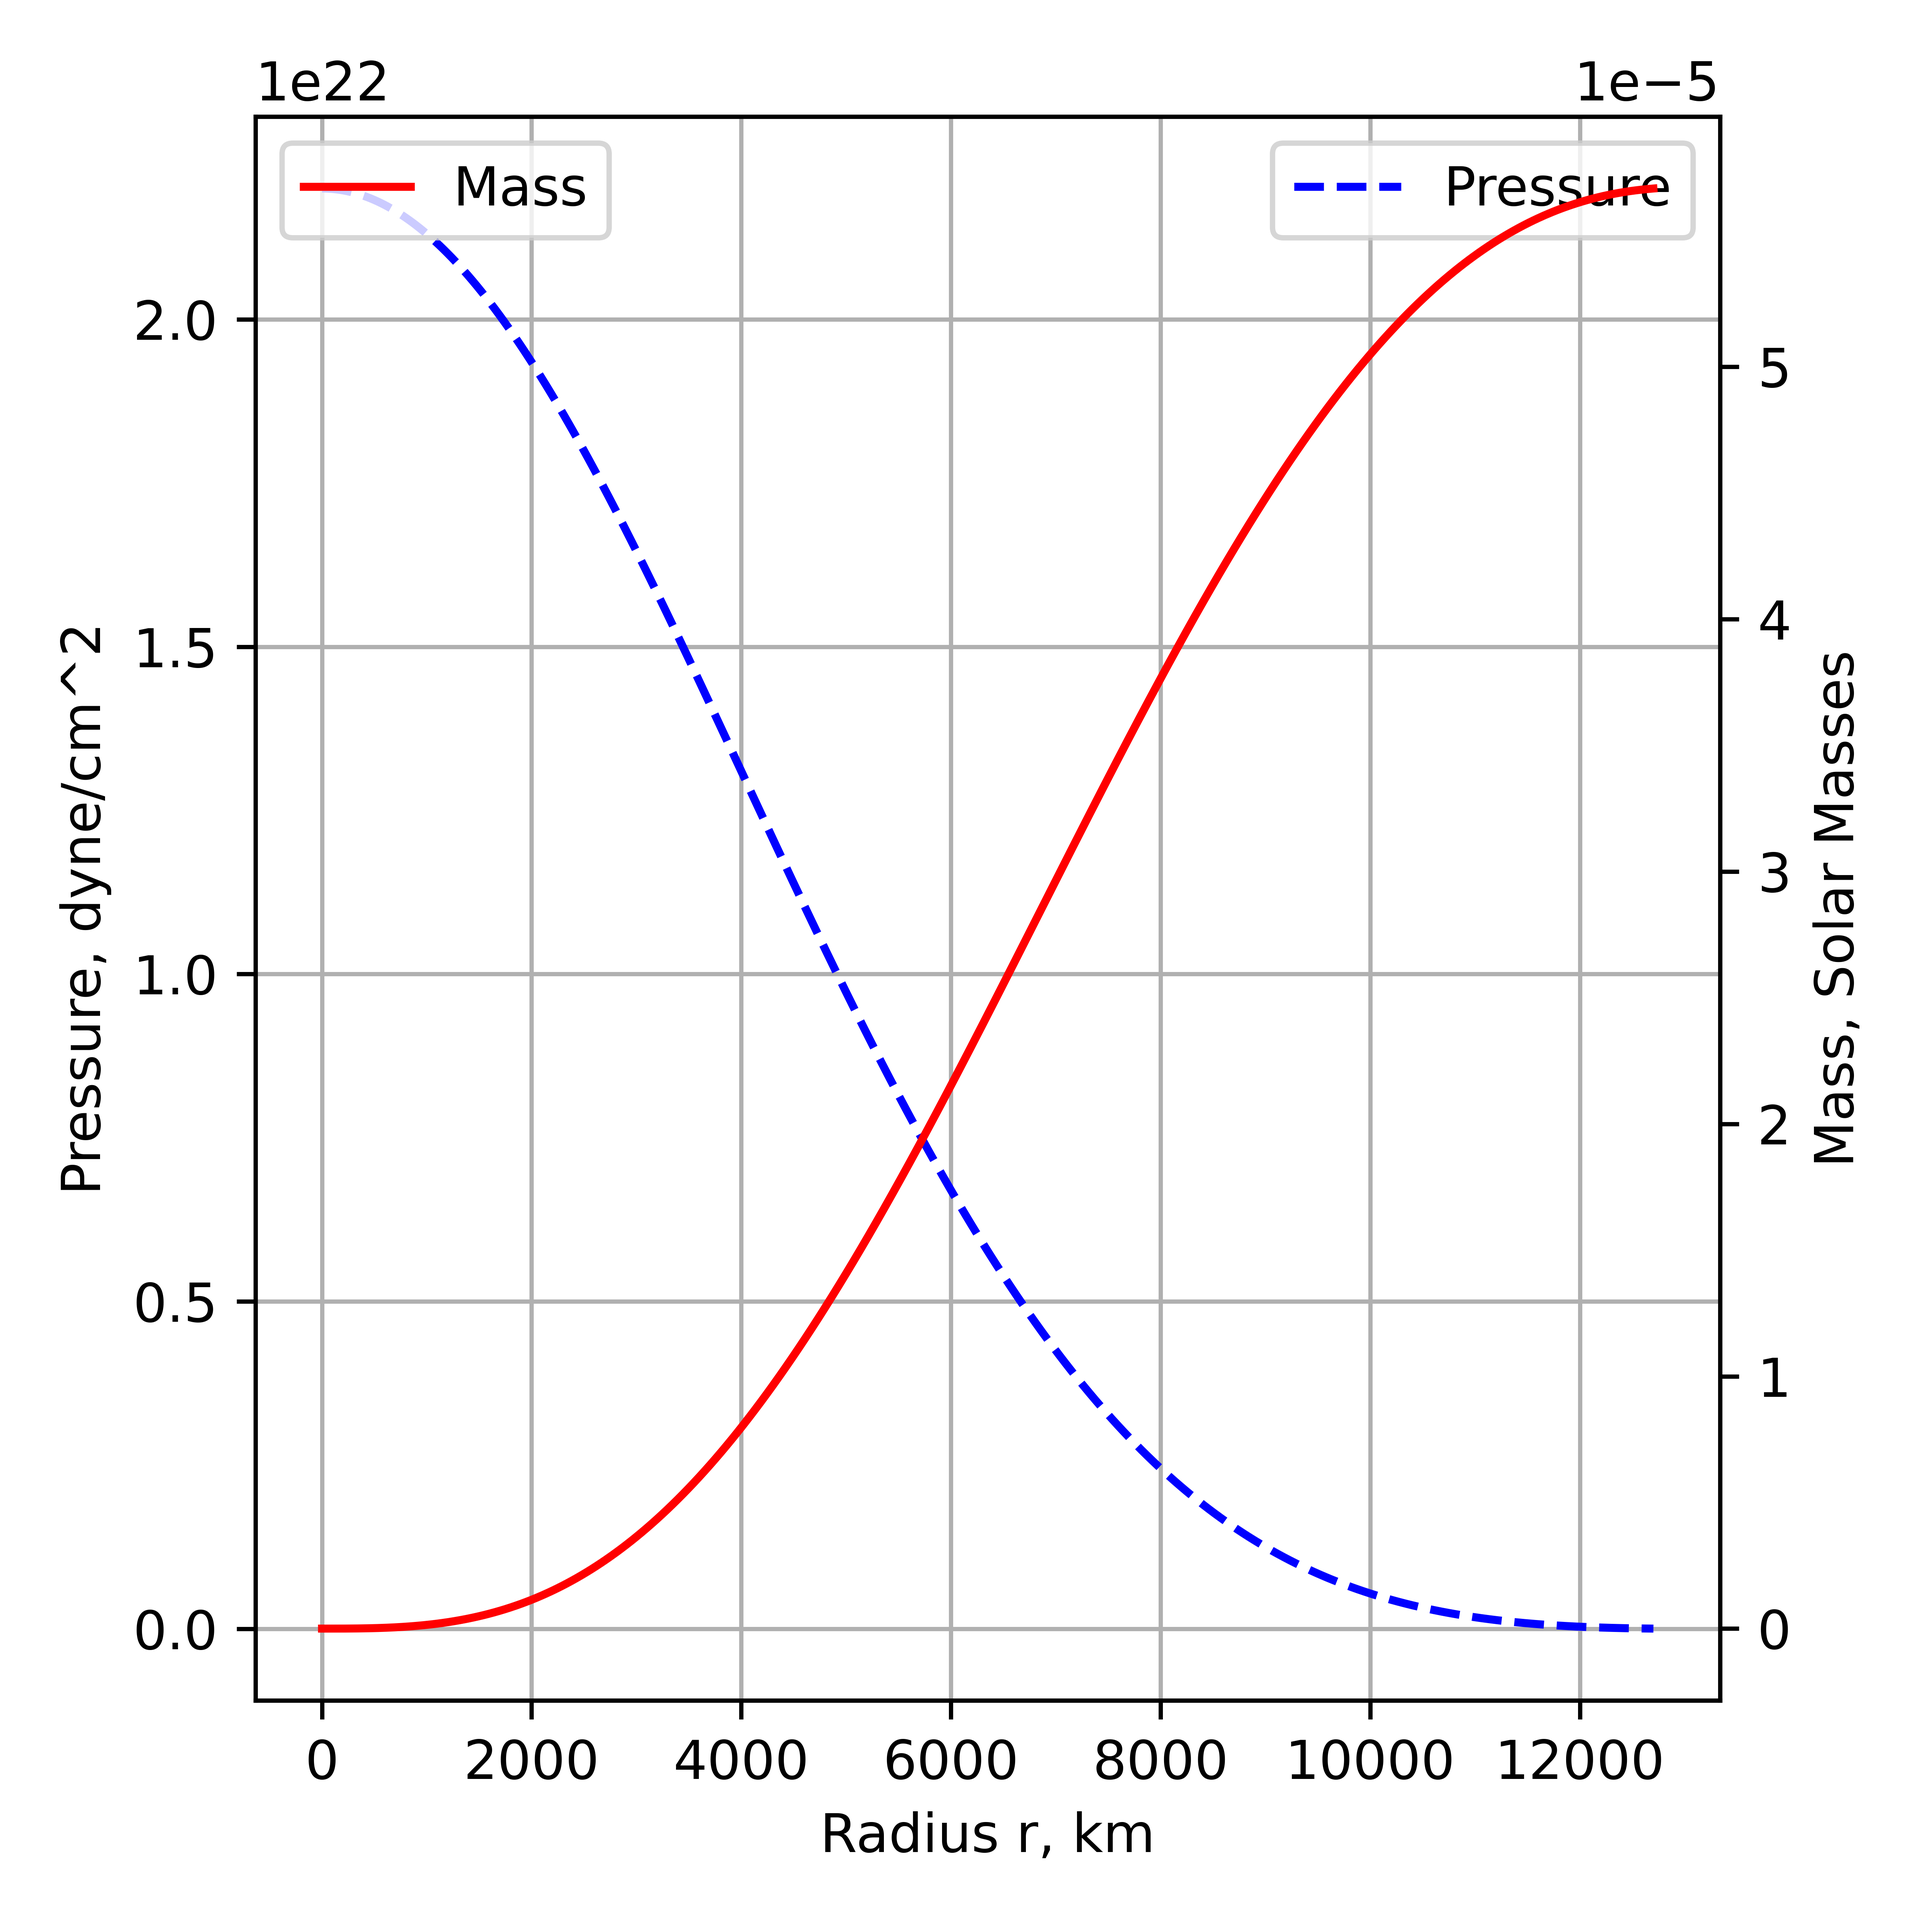
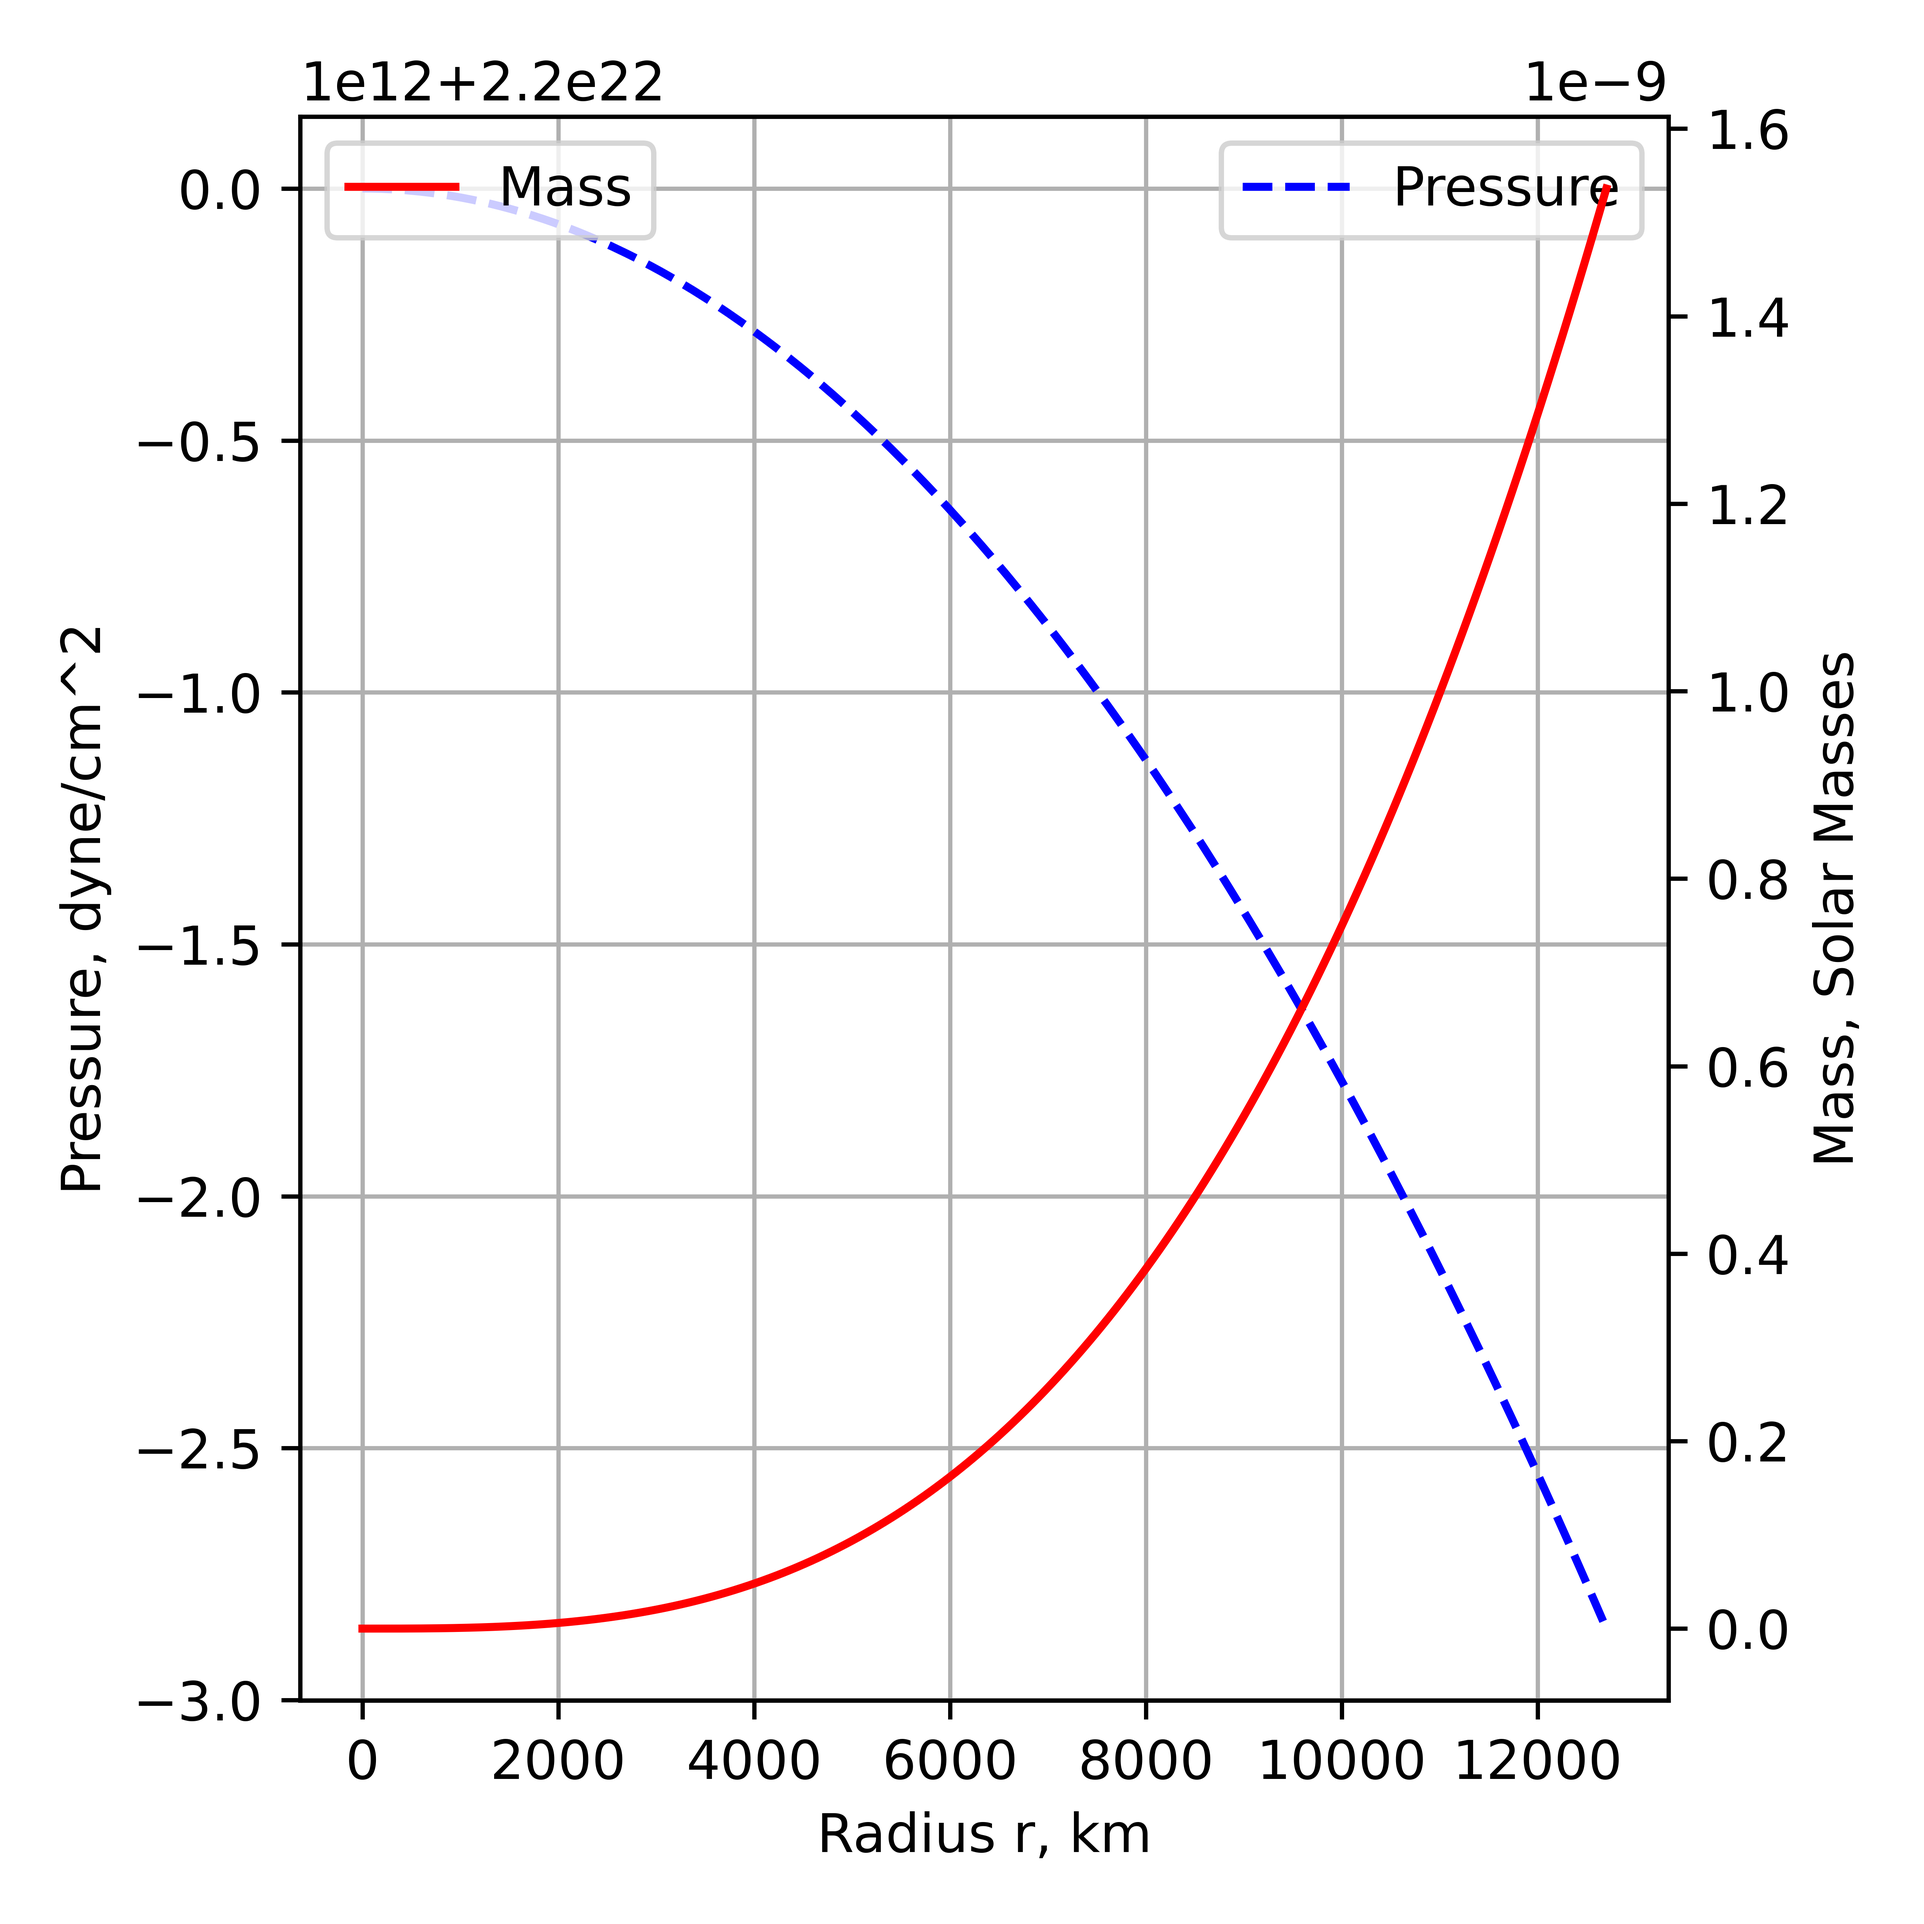
changes

diff --git a/white_dwarfs.py b/white_dwarfs.py
@@ -9,30 +9,39 @@ import numpy as np
 import scipy.constants as con
 import RK4 as solve
 
-R_0 = 1 # Start Radius
-STATE_0 = np.array([0, 2.2e22])  # Boundary Conditions at R=R_0 [Mass, Pressure]
-STEP = 1 # Step Size
-NUM = 12_700 # Number of Steps
- 
-c = con.c # Speed of Light, m/s
-M_SUN = 1.989e30 # Mass of sun in kg
-R_SCHW = (con.G*M_SUN)/(c**2) # Solar Schwarzschild Radius
+R_0 = 1  # Start Radius
+# Boundary Conditions at R=R_0 [Mass, Pressure]
+STATE_0 = np.array([0, 2.2e22])
+STEP = 1  # Step Size
+NUM = 12_700  # Number of Steps
 
-K = 1e-29 # Pressure Constant
-GAMMA = 5/3 
+c = con.c  # Speed of Light, m/s
+M_SUN = 1.989e30  # Mass of sun, kg
+R_SCHW = (con.G*M_SUN)/(c**2) * 0.001  # Solar Schwarzschild Radius, km
+
+M_E = 9.1093837e-31  # Electron Mass, kg
+M_N = 1.67492749804-27  # Neutron Mass, kg
+A = 2
+Z = 1
+GAMMA = 5/3
+
+K = 6.821915394e-21  # Pressure Constant
+
 
 def main():
     radii, states = solve.rk4(grad, R_0, STATE_0, STEP, NUM)
     solve.plot(radii, states)
-    
+
+
 def grad(radius, state):
     m, p = state
     dm_dr = ((4 * np.pi * np.power(radius, 2)) /
              (M_SUN*c**2)) * np.power((p/K), 1/GAMMA)
     dp_dr = -1 * (R_SCHW/(np.power(radius, 2))) * \
-        (p/K)**(1/GAMMA) * m
-        
+        np.power((p/K), (1/GAMMA)) * m
+
     return np.array([dm_dr, dp_dr])  # gradient array
 
+
 if __name__ == "__main__":
-   main()
+    main()
